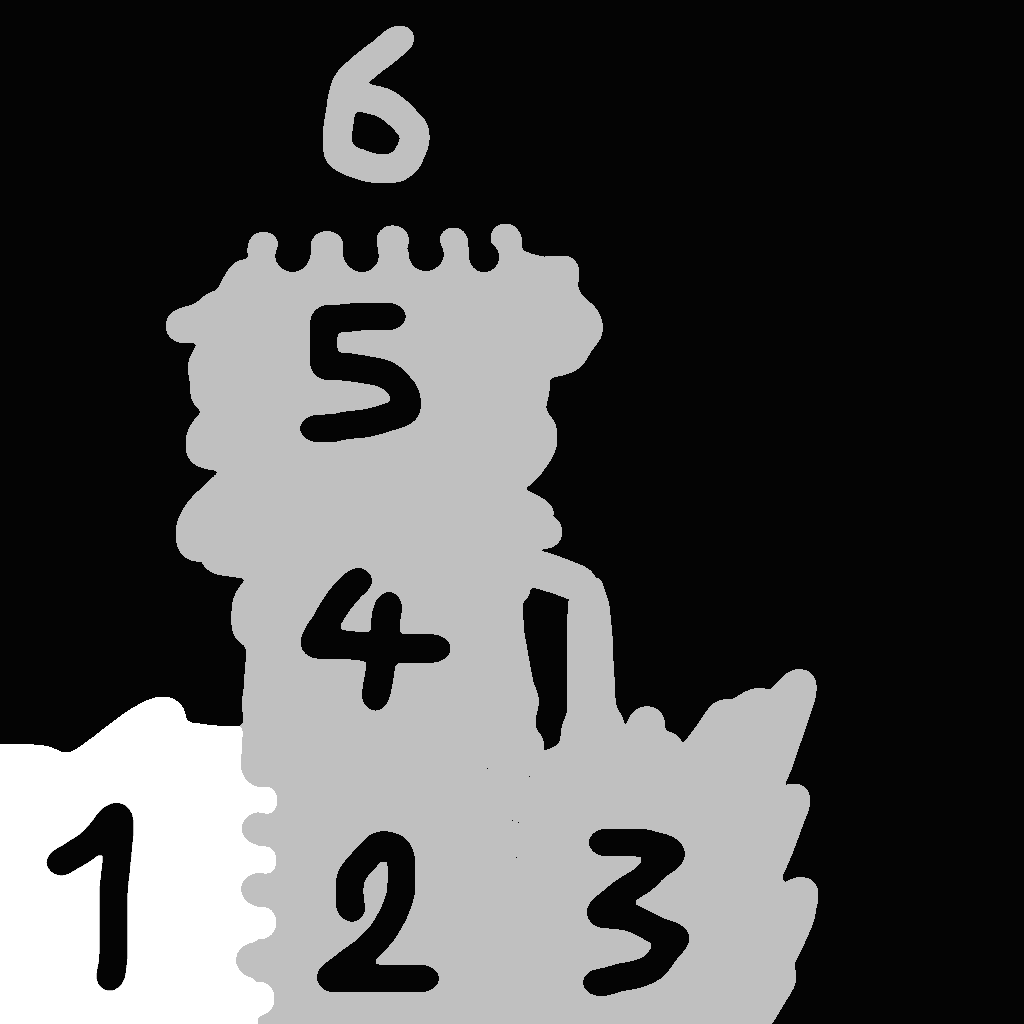
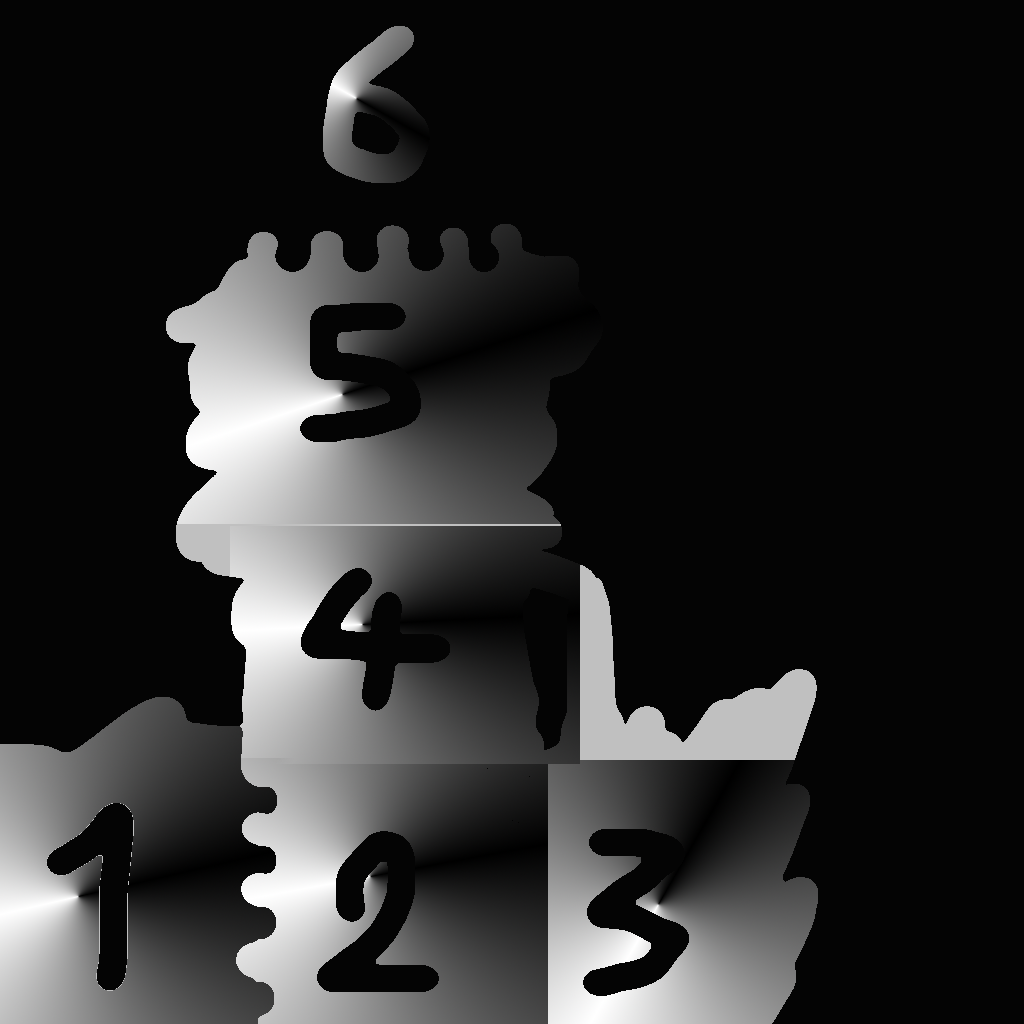
Started work on light pass.

Changed region(s): [[0.0, 0.2188, 0.8125, 1.0], [0.3125, 0.0, 0.4375, 0.1875]]

diff --git a/include/DumbFramework/render/light/lightpass.hpp b/include/DumbFramework/render/light/lightpass.hpp
@@ -1,0 +1,32 @@
+#ifndef _DUMB_FW_RENDER_LIGHT_RENDERER_
+#define _DUMB_FW_RENDER_LIGHT_RENDERER_
+
+#include <DumbFramework/render/vertexbuffer.hpp>
+#include <DumbFramework/render/vertexstream.hpp>
+#include <DumbFramework/render/light/light.hpp>
+
+namespace Framework {
+namespace Render    {
+
+class LightPass
+{
+    public:
+    // Generate shadow maps for shadow casting lights
+    // Light => screen space quad covering light bounding object
+    //          vertex buffer => light position + extra infos depending of lights
+    //          vertex/geometry/pixel shader per type of light
+    //          geometry shader build screen quad depending of light type
+    //          pixel shader => compute brdf
+        void draw(/* [todo] GBuffer */);
+        void attachOutput(Texture2D *out);
+    protected:
+        Render::RenderContext _renderContext;
+        Render::VertexBuffer  _vertexBuffer;
+        Render::VertexStream  _vertexStream;
+        Render::Program       _program;
+};
+
+} // Render
+} // Framework
+
+#endif /* _DUMB_FW_RENDER_LIGHT_RENDERER_ */

diff --git a/include/DumbFramework/render/light/light.hpp b/include/DumbFramework/render/light/light.hpp
@@ -20,6 +20,8 @@ class Light
         virtual ~Light();
         
     public:
+        /** Light position. **/
+        glm::vec3 _position;
         /** Light radius. **/
         float radius;
         /** Light intensity. **/

diff --git a/include/DumbFramework/render/light/pointlight.hpp b/include/DumbFramework/render/light/pointlight.hpp
@@ -18,8 +18,6 @@ class PointLight : public Light
         virtual ~PointLight();
         
     public:
-        /** Light position. **/
-        glm::vec3 _position;
 };
 
 } // Render
